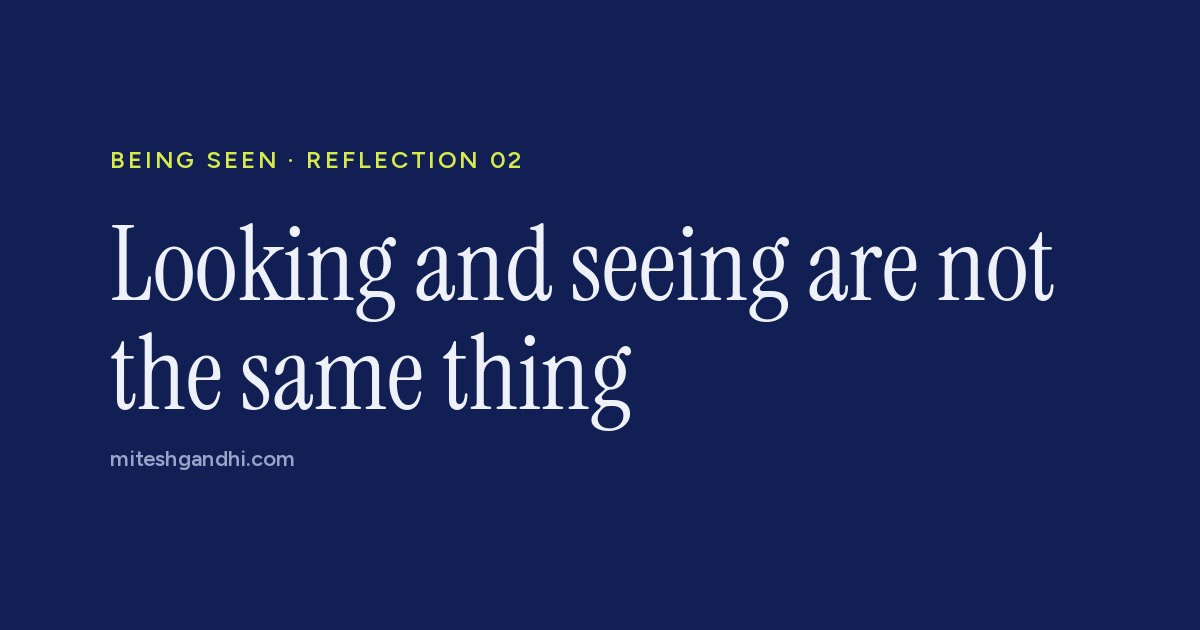
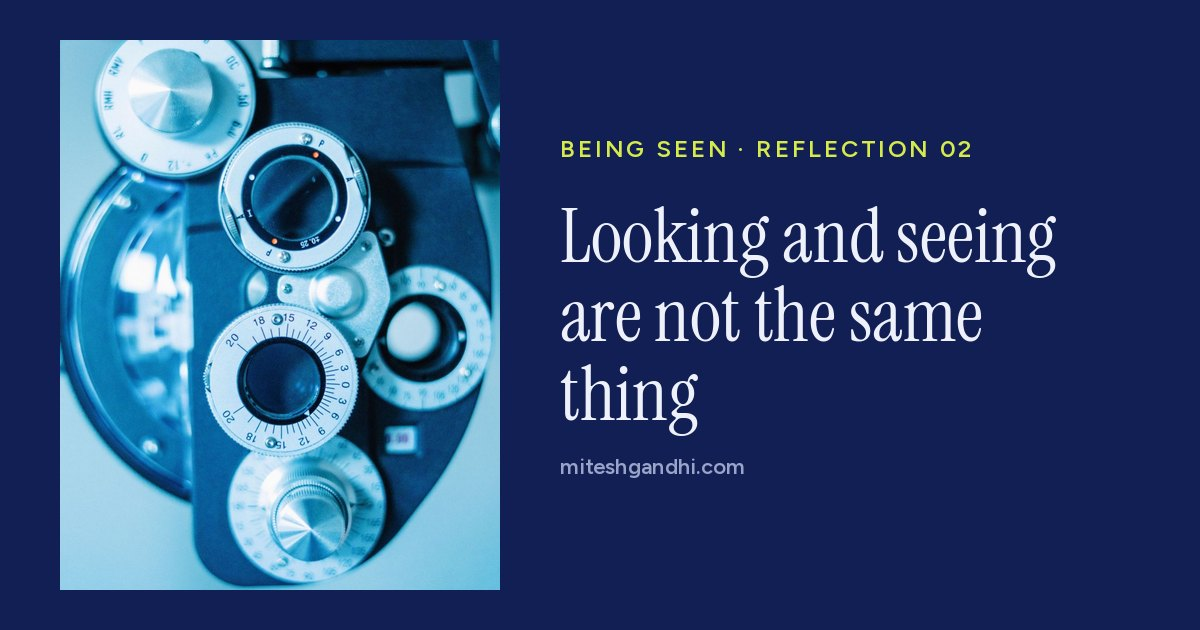
Make the photo library private and add clinic photos to three Being Seen pieces
/photos/ now redirects visitors to the home page and is kept out of search.
The four Pexels clinic photos from fc18e42 go on Looking and seeing, The
first ten seconds, and Starting the day in stillness; their preview images
now use the photos instead of title cards.

Claude-Session: https://claude.ai/code/session_01Wms8gBfqDiWxmsZ3jGdbEd

diff --git a/reflection-looking-vs-seeing.html b/reflection-looking-vs-seeing.html
@@ -113,8 +113,12 @@
 </header>
 
 <article>
+  <div class="photo"><img src="/phoropter-dials.jpg" alt="Close-up of the lens dials on an eye-testing instrument, in soft blue light" width="900" height="1125"></div>
+  <p style="font-size:0.95rem;font-style:italic;color:var(--cobalt);margin-top:-1.25rem;">Photo: Pexels.</p>
   <p>My profession is built on looking. Lights, lenses, magnification. We can examine the front of the eye in remarkable detail.</p>
   <p>But the instruments only tell half the story. The other half is sitting in the chair: a person who may be worried, tired, embarrassed about a symptom, or simply hoping someone will take them seriously.</p>
+  <div class="photo"><img src="/eye-test-patient.jpg" alt="A person seated behind an eye-testing instrument, looking through its lenses" width="900" height="1125"></div>
+  <p style="font-size:0.95rem;font-style:italic;color:var(--cobalt);margin-top:-1.25rem;">The other half of the story. Photo: Pexels.</p>
   <p>You can look at someone for twenty minutes and never see them. And you can see someone in a single moment: the pause before they answer, the question they almost didn't ask.</p>
   <p>I've come to believe that seeing is a choice. It means slowing down, putting the agenda aside for a breath, and being curious about the person rather than just the problem.</p>
   <p>It's true in clinic. It's just as true at the dinner table, in a team meeting, or in a five-minute conversation with a stranger.</p>

diff --git a/reflection-stillness.html b/reflection-stillness.html
@@ -113,6 +113,8 @@
 </header>
 
 <article>
+  <div class="photo"><img src="/clinic-instrument.jpg" alt="A quiet consulting room with an eye-testing machine on a white desk" width="900" height="1125"></div>
+  <p style="font-size:0.95rem;font-style:italic;color:var(--cobalt);margin-top:-1.25rem;">Before the first patient. Photo: Pexels.</p>
   <p>Before the phone, before the diary, before the first patient, I try to begin with a few minutes of meditation. Eyes closed. Attention gently drawn inward.</p>
   <p>It isn't dramatic, and some mornings my mind is anything but still. But over the years it has become the quiet foundation the rest of the day stands on.</p>
   <p>What I notice most is how it changes the way I meet people. When I start from stillness, I'm less hurried and more present. I listen a little longer. I see a little more.</p>

diff --git a/reflection-first-ten-seconds.html b/reflection-first-ten-seconds.html
@@ -113,6 +113,8 @@
 </header>
 
 <article>
+  <div class="photo"><img src="/exam-chair.jpg" alt="An empty examination chair beside eye-testing equipment" width="900" height="1125"></div>
+  <p style="font-size:0.95rem;font-style:italic;color:var(--cobalt);margin-top:-1.25rem;">Before the first word. Photo: Pexels.</p>
   <p>Before I've said a word, a patient has already started to decide how they feel about the next half hour.</p>
   <p>It's in the walk from the waiting room. Whether I use their name. Whether I'm still glancing at a screen, or whether I've turned to face them.</p>
   <p>None of this is clinical skill, and yet it shapes everything that follows: how openly someone describes their symptoms, whether they mention the thing that's really worrying them, and whether they leave feeling processed or cared for.</p>

diff --git a/scripts/og_images.py b/scripts/og_images.py
@@ -41,9 +41,6 @@ WIDE = 1.4  # photos at least this wide fill the frame; narrower ones are shown 
 SOURCES = {
     "wanted-to-disappear": "mitesh-age4.jpg",
     "stopped-performing": None,
-    "first-ten-seconds": None,
-    "looking-vs-seeing": None,
-    "stillness": None,
 }
 NEVER = {"mitesh.jpg"}
 

diff --git a/photos/library/index.md b/photos/library/index.md
@@ -2,7 +2,7 @@
 
 Mitesh's own photos, uploaded 13 to 18 October 2026. These are the versions used on the site: on 18 October, the India, age-four and letter photos were sharpened, and fingers were cropped out of the India photo. The untouched uploads are in `originals/`.
 
-The site still uses its own copies in the site root. This folder is the reference set, so new pieces can reuse these photos (see SOURCES in scripts/og_images.py). Never use `mitesh.jpg` as a default preview image.
+This folder is private: _redirects sends visitors away from /photos/ and robots.txt keeps it out of search. The site still uses its own copies in the site root. This folder is the reference set, so new pieces can reuse these photos (see SOURCES in scripts/og_images.py). Never use `mitesh.jpg` as a default preview image.
 
 | File | Size | What it shows | Used on |
 | --- | --- | --- | --- |
@@ -20,3 +20,8 @@ The uploads as Mitesh sent them, before editing:
 - `originals/india-2001-mitesh.jpg` (900 × 1100): before the crop and sharpening.
 - `originals/mitesh-age4.jpg` (800 × 798): before sharpening.
 - `originals/reflection-letters.jpg` (1080 × 1080): before sharpening.
+
+## Not in the library
+
+- The four clinic photos on the Being Seen pieces (`exam-chair.jpg`, `phoropter-dials.jpg`, `eye-test-patient.jpg`, `clinic-instrument.jpg`, in the site root) are Pexels stock photos, not Mitesh's.
+- Mitesh's Table Mountain, halo, Mother Mary and party photos have never been uploaded to the site. Add them here when he sends them.
